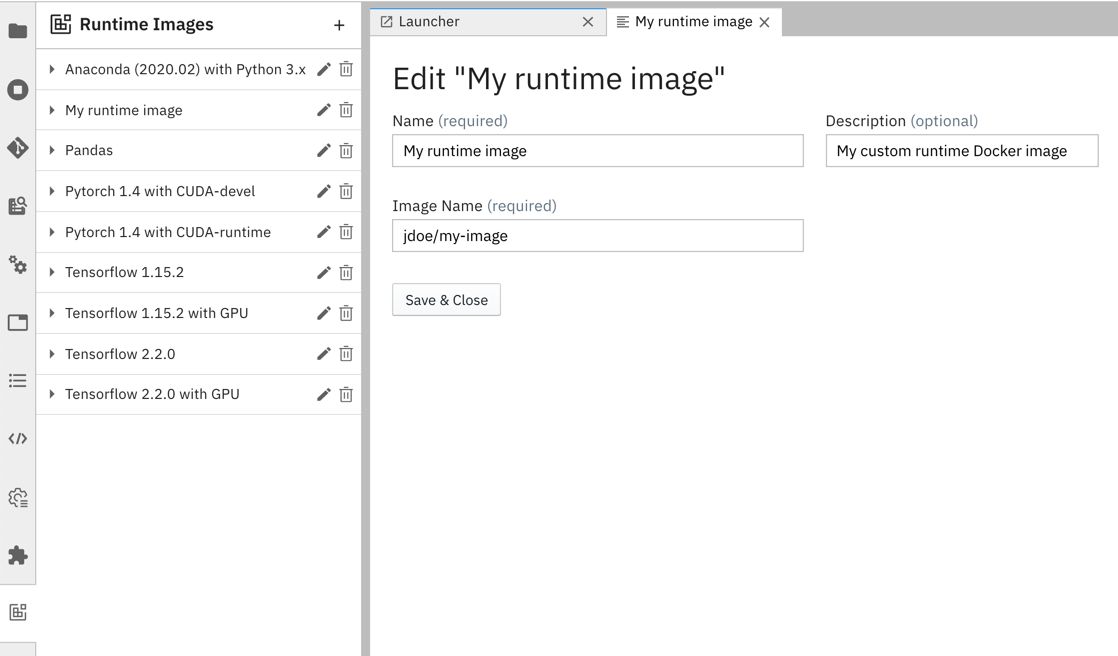
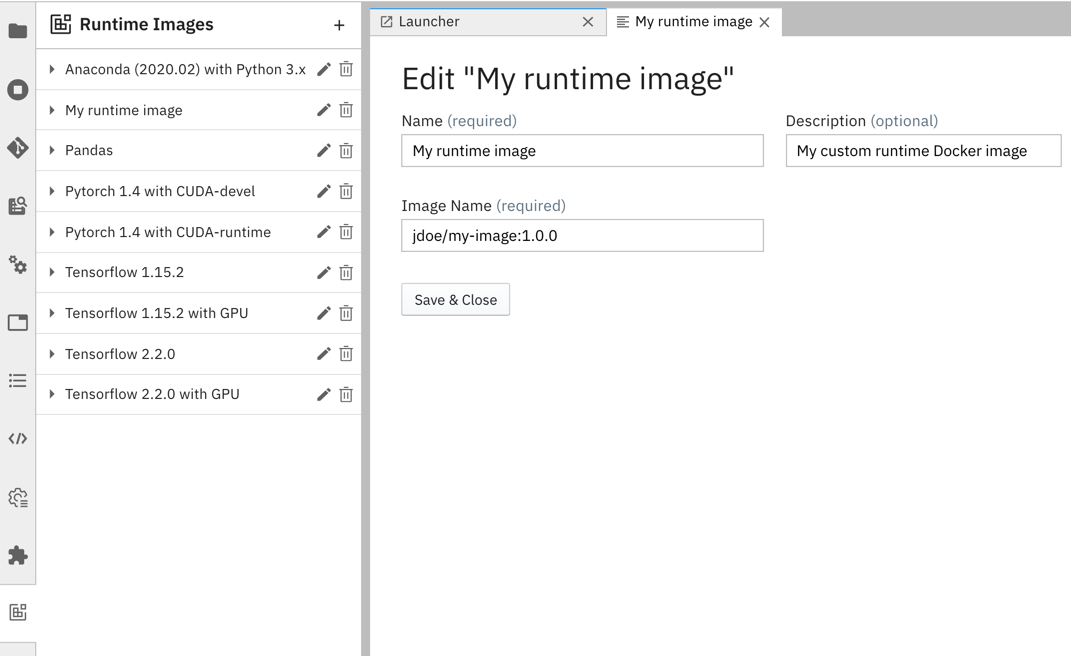
use image tags and fix issues

diff --git a/docs/source/user_guide/runtime-image-conf.md b/docs/source/user_guide/runtime-image-conf.md
@@ -76,14 +76,14 @@ runtime-image   anaconda               /Users/jdoe/.../jupyter/metadata/runtime-
 ...  
 ```
 
-To add a runtime image configuration for the public `jdoe/my-image` Docker image:
+To add a runtime image configuration for the public `jdoe/my-image:1.0.0` Docker image:
 
 ```bash
 $ elyra-metadata install runtime-images --schema_name=runtime-image \
        --name="my_image_name" \
        --display_name="My runtime image" \
        --description="My custom runtime Docker image" \
-       --image_name="jdoe/my-image"
+       --image_name="jdoe/my-image:1.0.0"
 ```
 
 To replace a runtime image configuration append the `--replace` option:
@@ -93,7 +93,7 @@ $ elyra-metadata install runtime-images --schema_name=runtime-image \
        --name="my_image_name" \
        --display_name="My runtime image" \
        --description="My other custom runtime Docker image" \
-       --image_name="jdoe/my-other-image" \
+       --image_name="jdoe/my-other-image:1.0.1" \
        --replace
 ```
 
@@ -110,16 +110,21 @@ $ elyra-metadata remove runtime-images \
 The runtime image configuration properties are defined as follows. The string in the headings below, which is enclosed in parentheses, denotes the CLI option name.
 
 ##### Name (display_name)
-A user-friendly name for runtime image definition. This property is required.
+A user-friendly name for runtime image configuration. This property is required.
 
 Example: `My runtime image`
 
 ##### Description (description)
-Desscription for this runtime image definition.
+Description for this runtime image configuration.
 
 Example: `My custom runtime Docker image`
 
 ##### Image Name (image_name)
-The name of an existing Docker image in the public Docker Hub container registry that meets the stated prerequisites. This property is required.
+The name and tag of an existing Docker image in the public Docker Hub container registry that meets the stated prerequisites. This property is required.
 
-Example: `jdoe/my-image`
+Example: `jdoe/my-image:1.0.0`
+
+##### N/A (name)
+A unique internal identifier for the runtime image configuration. The property is required when the command line interface is used manage a configuration. An identifier is automatically generated from the user-friendly name when a configuration is added using the UI.
+
+Example: `my_runtime_image`
